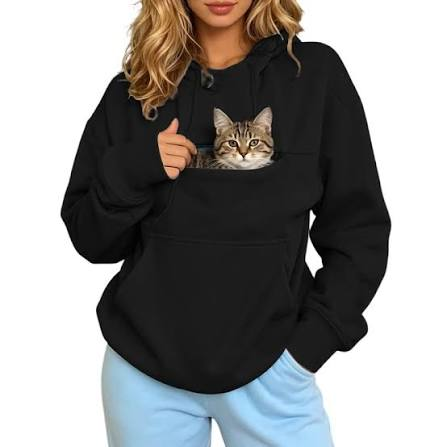
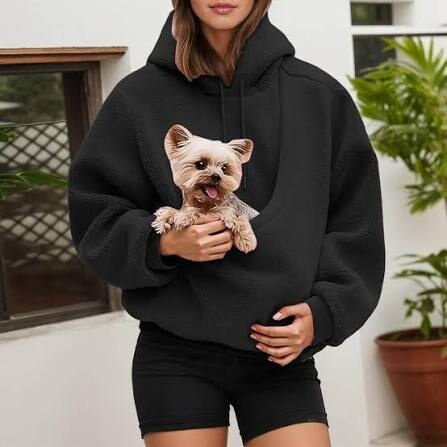
Offer the Pouch Pet Hoodie in five colours, with new photos
The owner replaced the cat photo with a Yorkie-in-the-pouch set in Black,
Gray, Pink, Cream and Green. hoodie-black.jpg keeps its name, so the Payment
Link's product image (which points at it) picks up the new photo too.

Swatches in the buy box swap the photo and append the colour to the Payment
Link as client_reference_id, the only value a Payment Link URL can carry, so
fulfilment reads it off the Checkout Session. ?colour= on the page URL
preselects one for per-colour ads.

Claude-Session: https://claude.ai/code/session_01HXWns3bZUP5hcmdhQzxhwE

diff --git a/landing/pouch-pet-hoodie/index.html b/landing/pouch-pet-hoodie/index.html
@@ -4,7 +4,7 @@
 <meta charset="utf-8">
 <meta name="viewport" content="width=device-width, initial-scale=1">
 <title>Pouch Pet Hoodie · ChillMyPet</title>
-<meta name="description" content="A soft pullover hoodie with a roomy front pouch for your cat or small dog to ride in. In Black, sizes XS to XL. $49, free standard shipping.">
+<meta name="description" content="A soft pullover hoodie with a roomy front pouch for your cat or small dog to ride in. In Black, Gray, Pink, Cream and Green, sizes XS to XL. $49, free standard shipping.">
 <meta property="og:title" content="Pouch Pet Hoodie · ChillMyPet">
 <meta property="og:image" content="hoodie-black.jpg">
 <link rel="preconnect" href="https://fonts.googleapis.com">
@@ -18,17 +18,21 @@
 <header><div class="in"><a class="brand" href="https://chillmypet.com">ChillMyPet</a></div></header>
 <main>
 	<section class="hero">
-		<div class="photo"><img src="hoodie-black.jpg" alt="Pouch Pet Hoodie in Black, with a cat in the pouch"></div>
+		<div class="photo"><img id="photo" src="hoodie-black.jpg" alt="Pouch Pet Hoodie in Black, with a small dog in the pouch"></div>
 		<div>
 			<h1>Pouch Pet Hoodie</h1>
 			<ul class="bul">
 				<li><span>🐾</span><span>A front pouch made for <b>cats &amp; small dogs</b></span></li>
 				<li><span>🛋</span><span>Keeps them close while <b>you get on with your day</b></span></li>
 				<li><span>👕</span><span>Still <b>your favourite hoodie</b> when they hop out</span></li>
-				<li><span>🖤</span><span>In <b>Black</b>, sizes XS–XL</span></li>
+				<li><span>🎨</span><span>In <b>5 colours</b>, sizes XS–XL</span></li>
 			</ul>
 			<div class="buy">
 				<div class="row"><span class="title">Pouch Pet Hoodie</span><span class="price" id="price">$49.00</span></div>
+				<div class="colours">
+					<span class="label">Colour: <b id="colour-name">Black</b></span>
+					<div class="swatches" id="swatches" role="radiogroup" aria-label="Colour"></div>
+				</div>
 				<span class="note">You choose your size (XS–XL, your size, not your pet’s) at checkout.</span>
 				<a class="cta" id="buy" href="#">Buy now</a>
 				<div class="badges" aria-label="Accepted cards">
@@ -54,7 +58,7 @@ If you have any questions or would like to begin an exchange, please email us at
 
 If you’re between sizes, size up: a little extra room makes the pouch easier for your pet to settle into.</p></details>
 	<details><summary>Can I wear it without my pet?</summary><p>Of course. When they hop out, it’s a regular pullover hoodie.</p></details>
-	<details><summary>What colour is it?</summary><p>Black, in every size from XS to XL.</p></details>
+	<details><summary>What colours does it come in?</summary><p>Black, Gray, Pink, Cream and Green, each in every size from XS to XL. Pick yours above before you buy.</p></details>
 
 	<div class="guarantee">
 		<img src="guarantee-30day.webp" alt="30-day money-back guarantee">
@@ -73,9 +77,39 @@ If you’re between sizes, size up: a little extra room makes the pouch easier f
 		var c = window.HOODIE;
 		var buy = document.getElementById('buy');
 		var ready = /^https:\/\/(buy\.stripe\.com|checkout\.stripe\.com)\//.test(c.paymentLink) && c.paymentLink.indexOf('REPLACE') === -1;
+		var photo = document.getElementById('photo');
+		var swatches = document.getElementById('swatches');
+		var asked = (location.search.match(/[?&]colou?r=([a-z]+)/i) || [])[1];
+		var colour = c.colours.filter(function (x) { return x.id === (asked || '').toLowerCase(); })[0] || c.colours[0];
 		document.getElementById('price').textContent = '$' + c.price.toFixed(2);
 		fbq('track', 'ViewContent', { content_type: 'product', content_ids: ['pouch-pet-hoodie'], value: c.price, currency: c.currency });
-		buy.href = ready ? c.paymentLink : '#';
+
+		// The colour rides to Stripe as client_reference_id: the Payment Link has
+		// no colour field of its own, and that is the one value its URL can carry.
+		function pick(x) {
+			colour = x;
+			photo.src = x.image;
+			photo.alt = 'Pouch Pet Hoodie in ' + x.name + ', with a small dog in the pouch';
+			document.getElementById('colour-name').textContent = x.name;
+			Array.prototype.forEach.call(swatches.children, function (b) {
+				b.setAttribute('aria-checked', String(b.dataset.id === x.id));
+			});
+			buy.href = ready ? c.paymentLink + '?client_reference_id=' + x.id : '#';
+		}
+		c.colours.forEach(function (x) {
+			var b = document.createElement('button');
+			b.type = 'button';
+			b.className = 'swatch';
+			b.dataset.id = x.id;
+			b.title = x.name;
+			b.setAttribute('role', 'radio');
+			b.setAttribute('aria-label', x.name);
+			b.style.background = x.hex;
+			b.addEventListener('click', function () { pick(x); });
+			swatches.appendChild(b);
+			new Image().src = x.image;
+		});
+		pick(colour);
 		buy.addEventListener('click', function (e) {
 			if (!ready) { e.preventDefault(); alert('Add your Stripe Payment Link to config.js first.'); return; }
 			fbq('track', 'InitiateCheckout', { content_ids: ['pouch-pet-hoodie'], value: c.price, currency: c.currency, num_items: 1 });

diff --git a/landing/pouch-pet-hoodie/config.js b/landing/pouch-pet-hoodie/config.js
@@ -7,10 +7,20 @@
  * pixelIds    — the same three pixels chillmypet.com initialises. One
  *               fbq('track') reports to every one of them, exactly as the store
  *               does. Remove any you don't want measuring this page.
+ * colours     — the first is the default. id goes to Stripe as
+ *               client_reference_id, so keep it lowercase letters only; ?colour=
+ *               on the page URL preselects one (for an ad per colour).
  */
 window.HOODIE = {
 	paymentLink: 'https://buy.stripe.com/fZu28sfbIgamgIe8tp1wY01',
 	pixelIds: ['1341978141149107', '1363695699271757', '28272021345717397'],
 	price: 49,
-	currency: 'USD'
+	currency: 'USD',
+	colours: [
+		{ id: 'black', name: 'Black', hex: '#1c1c1c', image: 'hoodie-black.jpg' },
+		{ id: 'gray', name: 'Gray', hex: '#8c8c8c', image: 'hoodie-gray.jpg' },
+		{ id: 'pink', name: 'Pink', hex: '#f0a9b8', image: 'hoodie-pink.jpg' },
+		{ id: 'cream', name: 'Cream', hex: '#efe9da', image: 'hoodie-cream.jpg' },
+		{ id: 'green', name: 'Green', hex: '#2f5743', image: 'hoodie-green.jpg' }
+	]
 };

diff --git a/landing/pouch-pet-hoodie/style.css b/landing/pouch-pet-hoodie/style.css
@@ -18,6 +18,11 @@ ul.bul li{display:flex;gap:10px}
 .row{display:flex;justify-content:space-between;align-items:baseline;gap:12px}
 .title{font-weight:700;font-size:17px}
 .price{font-weight:700;font-size:24px}
+.colours{display:grid;gap:8px}
+.label{font-size:15px}
+.swatches{display:flex;flex-wrap:wrap;gap:10px}
+.swatch{width:36px;height:36px;border-radius:50%;border:1px solid #c9c6c0;padding:0;cursor:pointer;box-shadow:inset 0 0 0 3px #fff}
+.swatch[aria-checked=true]{outline:2px solid #2f3d24;outline-offset:2px}
 .note{font-size:14px;color:#5b5955}
 .cta{display:block;width:100%;border:0;border-radius:10px;background:#2f3d24;color:#fff;font:700 17px/1 inherit;padding:18px;cursor:pointer;text-align:center;text-decoration:none}
 .cta:hover{opacity:.9}

diff --git a/landing/pouch-pet-hoodie/README.md b/landing/pouch-pet-hoodie/README.md
@@ -14,8 +14,15 @@ nothing it sells lands there.
   Purchase on `thank-you.html`. That fires only with Stripe's `session_id`, once
   per order, with the session id as `eventID`. It is browser-only (no CAPI), and
   value is one unit ($49) because the redirect does not carry the quantity.
-- **`config.js` is the only file to edit**: the Payment Link URL and the pixel
-  ids.
+- **Colour** (Black, Gray, Pink, Cream, Green) is picked on this page, not on
+  Stripe's: the swatches swap the photo and append
+  `?client_reference_id=<colour>` to the Payment Link, which is the only value a
+  Payment Link URL can carry. Fulfilment reads it from the Checkout Session's
+  `client_reference_id` (also on the `checkout.session.completed` event). A
+  session without one predates the colours and is Black. `?colour=pink` on this
+  page's URL preselects a colour, for an ad per colour.
+- **`config.js` is the only code to edit**: the Payment Link URL, the pixel
+  ids and the colours (each a `hoodie-<colour>.jpg` beside it).
 
 ## The Payment Link
 
